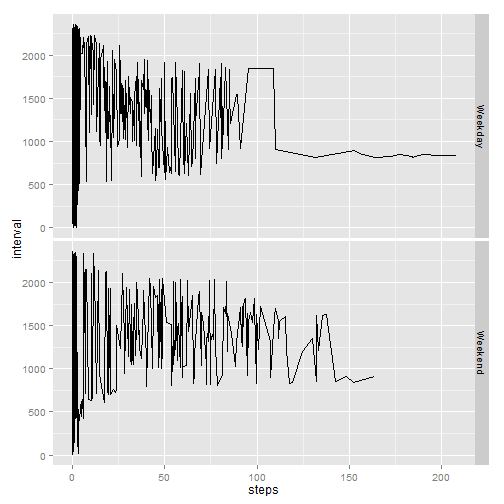
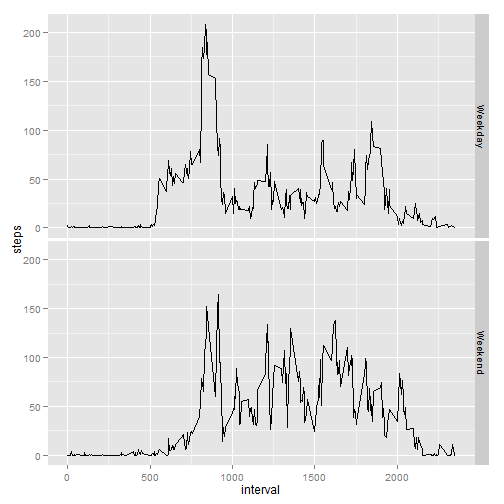
Latest Update

diff --git a/PA1_template.html b/PA1_template.html
@@ -322,10 +322,10 @@ activity.average
 <h2>What is the average daily activity pattern?</h2>
 
 <pre><code class="r">df &lt;- aggregate(steps ~ interval, data=activity, mean)
-ggplot(df, aes(steps, interval)) + geom_line()
+ggplot(df, aes(interval, steps)) + geom_line()
 </code></pre>
 
[2 lines of base64/hex data omitted]
 
 <pre><code class="r">maxSteps &lt;- df[which.max(df$steps), ]$interval
 </code></pre>
@@ -543,10 +543,10 @@ newActivity[newActivity$weekdaytype == FALSE, ]$weekdaytype &lt;- &#39;Weekend&#
 newActivity$weekdaytype &lt;- factor(newActivity$weekdaytype)
 
 df &lt;- aggregate(steps ~ weekdaytype + interval, data=newActivity, mean, na.rm=TRUE)
-ggplot(df, aes(steps, interval)) + geom_line() + facet_grid(weekdaytype ~ .)
+ggplot(df, aes(interval, steps)) + geom_line() + facet_grid(weekdaytype ~ .)
 </code></pre>
 
[2 lines of base64/hex data omitted]
 
 </body>
 

diff --git a/PA1_template.md b/PA1_template.md
@@ -149,7 +149,7 @@ activity.median
 
 ```r
 df <- aggregate(steps ~ interval, data=activity, mean)
-ggplot(df, aes(steps, interval)) + geom_line()
+ggplot(df, aes(interval, steps)) + geom_line()
 ```
 
 ![plot of chunk averagedailypattern](figure/averagedailypattern.png) 
@@ -386,7 +386,7 @@ newActivity[newActivity$weekdaytype == FALSE, ]$weekdaytype <- 'Weekend'
 newActivity$weekdaytype <- factor(newActivity$weekdaytype)
 
 df <- aggregate(steps ~ weekdaytype + interval, data=newActivity, mean, na.rm=TRUE)
-ggplot(df, aes(steps, interval)) + geom_line() + facet_grid(weekdaytype ~ .)
+ggplot(df, aes(interval, steps)) + geom_line() + facet_grid(weekdaytype ~ .)
 ```
 
 ![plot of chunk differences](figure/differences.png) 
